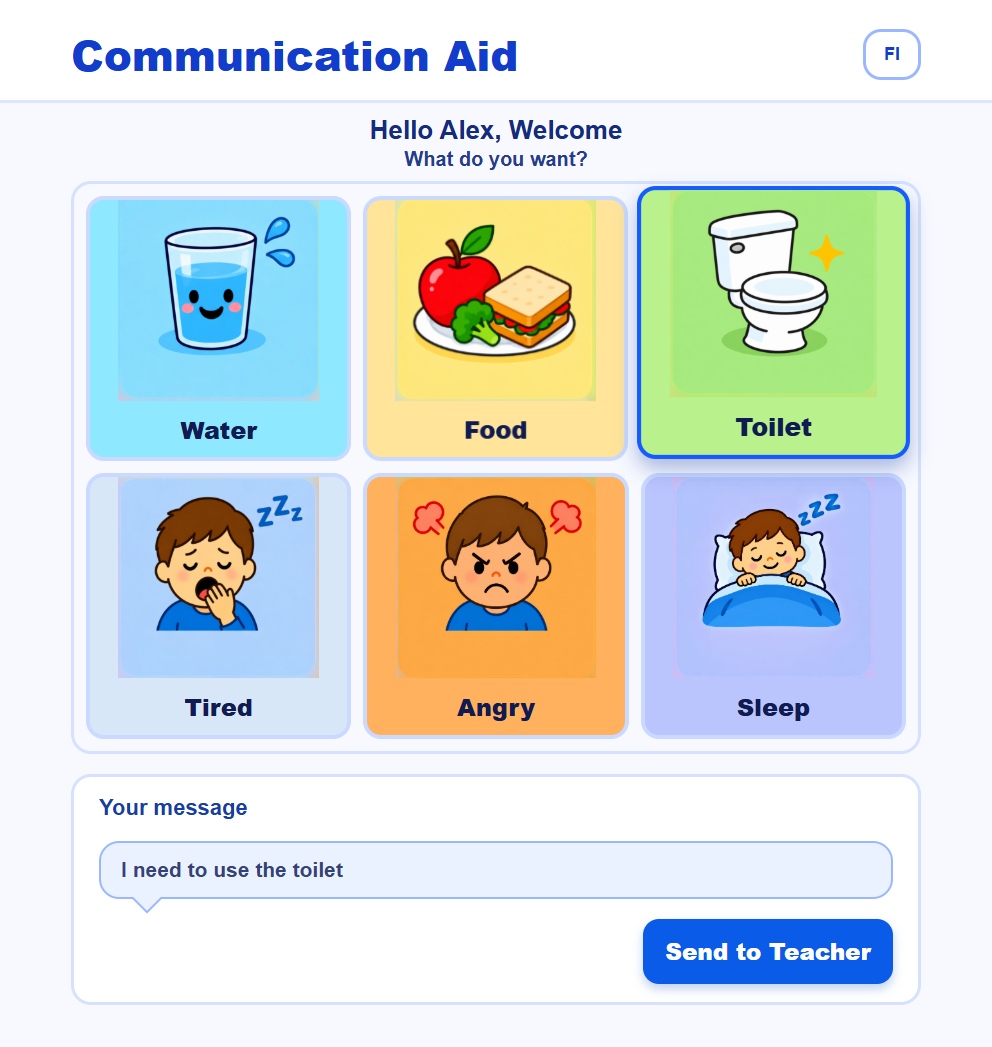
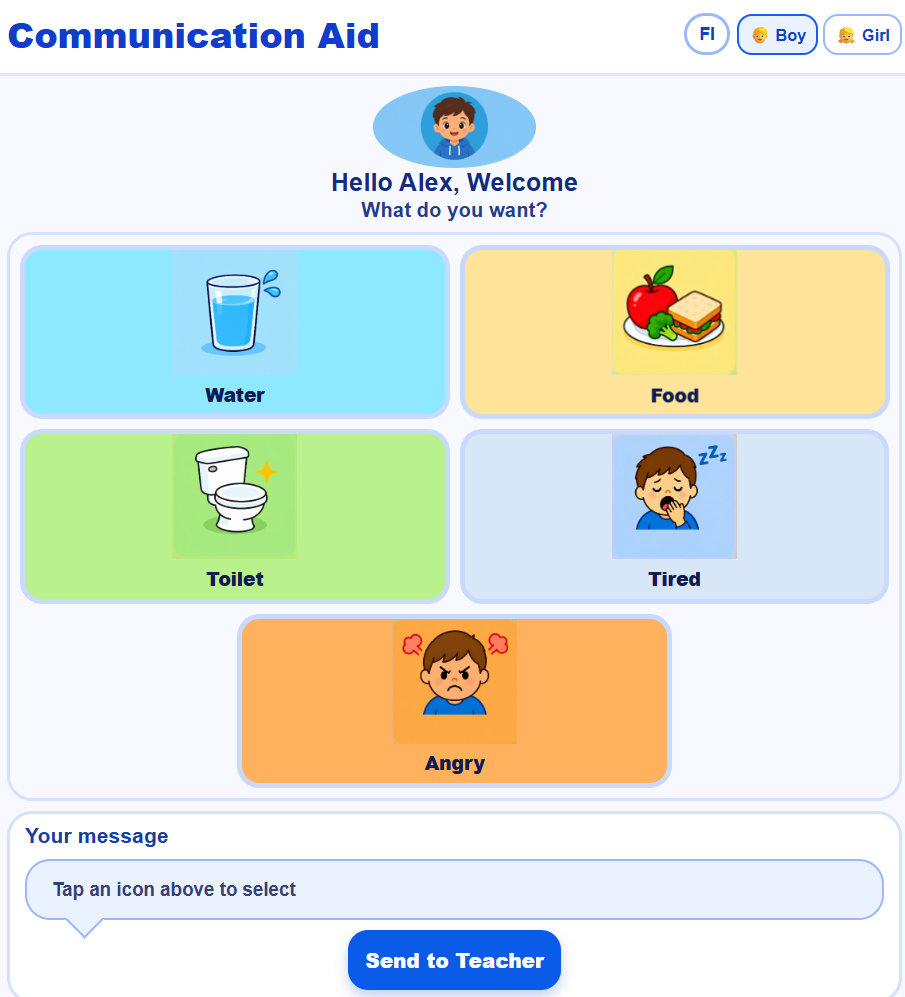
Update README.md to enhance screenshot table formatting

diff --git a/README.md b/README.md
@@ -17,8 +17,8 @@ The initial release is **1.0.0**. The planned improvements for **1.1.0** are lis
 
 ## Screenshots
 
-| English | Finnish |
-| --- | --- |
+| English                                              | Finnish                                              |
+| ---------------------------------------------------- | ---------------------------------------------------- |
 | ![English Communication Aid screen](App_demo_en.png) | ![Finnish Communication Aid screen](App_demo_fi.png) |
 
 ## Run the app
